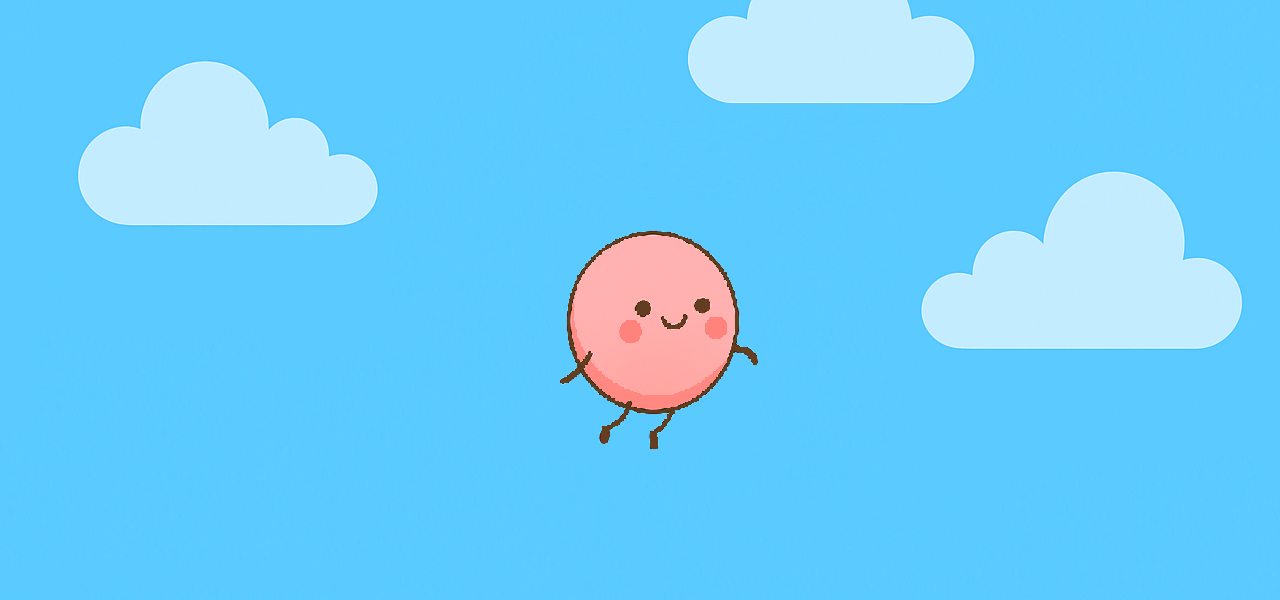
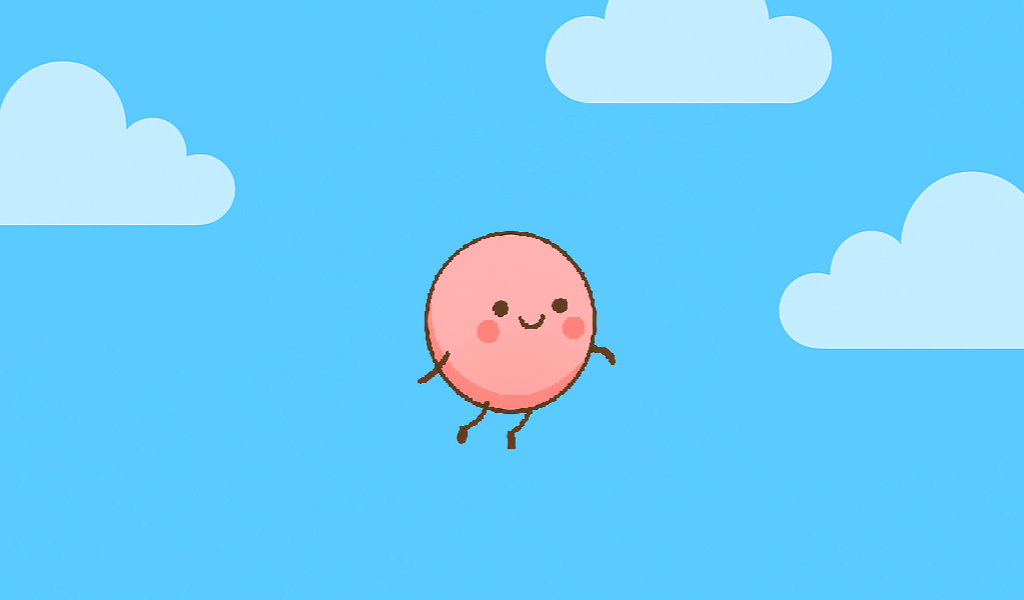
[250708] Font change

diff --git a/gamewindow.cpp b/gamewindow.cpp
@@ -28,6 +28,7 @@
 #include <algorithm>
 #include <QDataStream>
 #include <QThread>
+#include <QFontDatabase> // QFontDatabase 추가
 
 
 GameWindow::GameWindow(QWidget *parent, bool isMultiplayer)
@@ -541,7 +542,7 @@ void GameWindow::paintEvent(QPaintEvent *event)
     
 
     // 텍스트 정보 표시 - 캐싱 및 최적화
-    static QFont infoFont("Arial", 12);  // 정적 폰트 객체
+    static QFont infoFont = loadSystemFont("CookieRun Regular", 12);  // CookieRun Regular 폰트 사용
     painter.setFont(infoFont);
 
     // 멀티플레이어 모드에서 다른 플레이어들 그리기
@@ -581,7 +582,7 @@ void GameWindow::paintEvent(QPaintEvent *event)
         // 대기실 화면 그리기
         if (isInLobby && !isGameStarted) {
             painter.setPen(Qt::white);
-            QFont lobbyFont("Arial", 24, QFont::Bold);
+            static QFont lobbyFont = loadSystemFont("CookieRun Bold", 24, QFont::Bold);
             painter.setFont(lobbyFont);
             
             QString lobbyText = "Waiting for players...";
@@ -604,7 +605,7 @@ void GameWindow::paintEvent(QPaintEvent *event)
         // 게임 시작 카운트다운 그리기
         if (countdownValue > 0) {
             painter.setPen(Qt::yellow);
-            QFont countdownFont("Arial", 48, QFont::Bold);
+            static QFont countdownFont = loadSystemFont("CookieRun Bold", 48, QFont::Bold);
             painter.setFont(countdownFont);
             
             QString countdownText = QString::number(countdownValue);
@@ -644,6 +645,14 @@ void GameWindow::paintEvent(QPaintEvent *event)
     int rightEdge = width() - rightMargin;
     painter.drawText(rightEdge - fm.horizontalAdvance(scoreText), topMargin, scoreText);
     painter.drawText(rightEdge - fm.horizontalAdvance(playerText), topMargin + lineSpacing * 3, playerText);
+    
+    // 점수 표시에 고정폭 폰트 사용
+    static QFont scoreFont = loadSystemFont("CookieRun Bold", 14);
+    painter.setFont(scoreFont);
+    painter.drawText(rightEdge - 100, topMargin + lineSpacing * 4, QString("SCORE: %1").arg(score));
+    
+    // 다시 기본 폰트로 복원
+    painter.setFont(infoFont);
     
     // 디버그 정보는 조건부로 표시 (성능에 영향 줄이기)
 #ifdef QT_DEBUG
@@ -830,7 +839,7 @@ void GameWindow::showMultiplayerResults()
     // 제목
     QLabel *titleLabel = new QLabel("Game Results", resultDialog);
     titleLabel->setAlignment(Qt::AlignCenter);
-    QFont titleFont("Arial", 16, QFont::Bold);
+    QFont titleFont = loadSystemFont("CookieRun Bold", 16, QFont::Bold);
     titleLabel->setFont(titleFont);
     layout->addWidget(titleLabel);
     
@@ -838,7 +847,7 @@ void GameWindow::showMultiplayerResults()
     QString rankText = QString("Your Rank: %1/%2").arg(myRank).arg(finishedPlayers.size() + 1);
     QLabel *rankLabel = new QLabel(rankText, resultDialog);
     rankLabel->setAlignment(Qt::AlignCenter);
-    QFont rankFont("Arial", 14, QFont::Bold);
+    QFont rankFont = loadSystemFont("CookieRun Bold", 14, QFont::Bold);
     rankLabel->setFont(rankFont);
     rankLabel->setStyleSheet("color: #FFD700;"); // 금색
     layout->addWidget(rankLabel);
@@ -847,7 +856,7 @@ void GameWindow::showMultiplayerResults()
     QString scoreText = QString("Your Score: %1").arg(score);
     QLabel *scoreLabel = new QLabel(scoreText, resultDialog);
     scoreLabel->setAlignment(Qt::AlignCenter);
-    scoreLabel->setFont(QFont("Arial", 12));
+    scoreLabel->setFont(loadSystemFont("CookieRun Regular", 12));
     layout->addWidget(scoreLabel);
     
     // 구분선
@@ -858,7 +867,7 @@ void GameWindow::showMultiplayerResults()
     
     // 전체 순위표
     QLabel *rankingTitle = new QLabel("Final Rankings:", resultDialog);
-    rankingTitle->setFont(QFont("Arial", 12, QFont::Bold));
+    rankingTitle->setFont(loadSystemFont("CookieRun Bold", 12, QFont::Bold));
     layout->addWidget(rankingTitle);
     
     QTextEdit *rankingText = new QTextEdit(resultDialog);
@@ -910,6 +919,10 @@ void GameWindow::showMultiplayerResults()
     
     QPushButton *mainMenuButton = new QPushButton("Main Menu", resultDialog);
     QPushButton *restartButton = new QPushButton("Play Again", resultDialog);
+    
+    // 버튼 폰트 설정
+    mainMenuButton->setFont(loadSystemFont("CookieRun Bold", 10, QFont::Bold));
+    restartButton->setFont(loadSystemFont("CookieRun Bold", 10, QFont::Bold));
     
     buttonLayout->addWidget(mainMenuButton);
     buttonLayout->addWidget(restartButton);
@@ -1175,6 +1188,31 @@ void GameWindow::playSound(const QString &soundFile)
             qDebug() << "Failed to play sound with absolute path too.";
         }
     }
+}
+
+// 폰트 로딩을 위한 도우미 함수
+QFont GameWindow::loadSystemFont(const QString &fontName, int size, QFont::Weight weight)
+{
+    QFont font;
+    
+    // 시스템 폰트 디렉토리에서 폰트 로드 시도
+    QString fontPath = QString("/usr/lib/fonts/%1.ttf").arg(fontName);
+    int fontId = QFontDatabase::addApplicationFont(fontPath);
+    
+    if (fontId != -1) {
+        // 폰트 로드 성공
+        QStringList fontFamilies = QFontDatabase::applicationFontFamilies(fontId);
+        if (!fontFamilies.isEmpty()) {
+            font = QFont(fontFamilies.first(), size, weight);
+            qDebug() << "Loaded font:" << fontName << "from" << fontPath;
+        }
+    } else {
+        // 폰트 로드 실패 시 시스템 폰트 사용
+        font = QFont(fontName, size, weight);
+        qDebug() << "Using system font:" << fontName;
+    }
+    
+    return font;
 }
 
 void GameWindow::goBackToMainWindow()

diff --git a/gamewindow.h b/gamewindow.h
@@ -88,6 +88,8 @@ private:
 
     void playSound(const QString &soundFile);  // 사운드 재생 도우미 함수
 
+    // 폰트 로딩 도우미 함수
+    QFont loadSystemFont(const QString &fontName, int size, QFont::Weight weight = QFont::Normal);
     
     // 멀티플레이어 관련 함수들
     void startMultiplayer();
